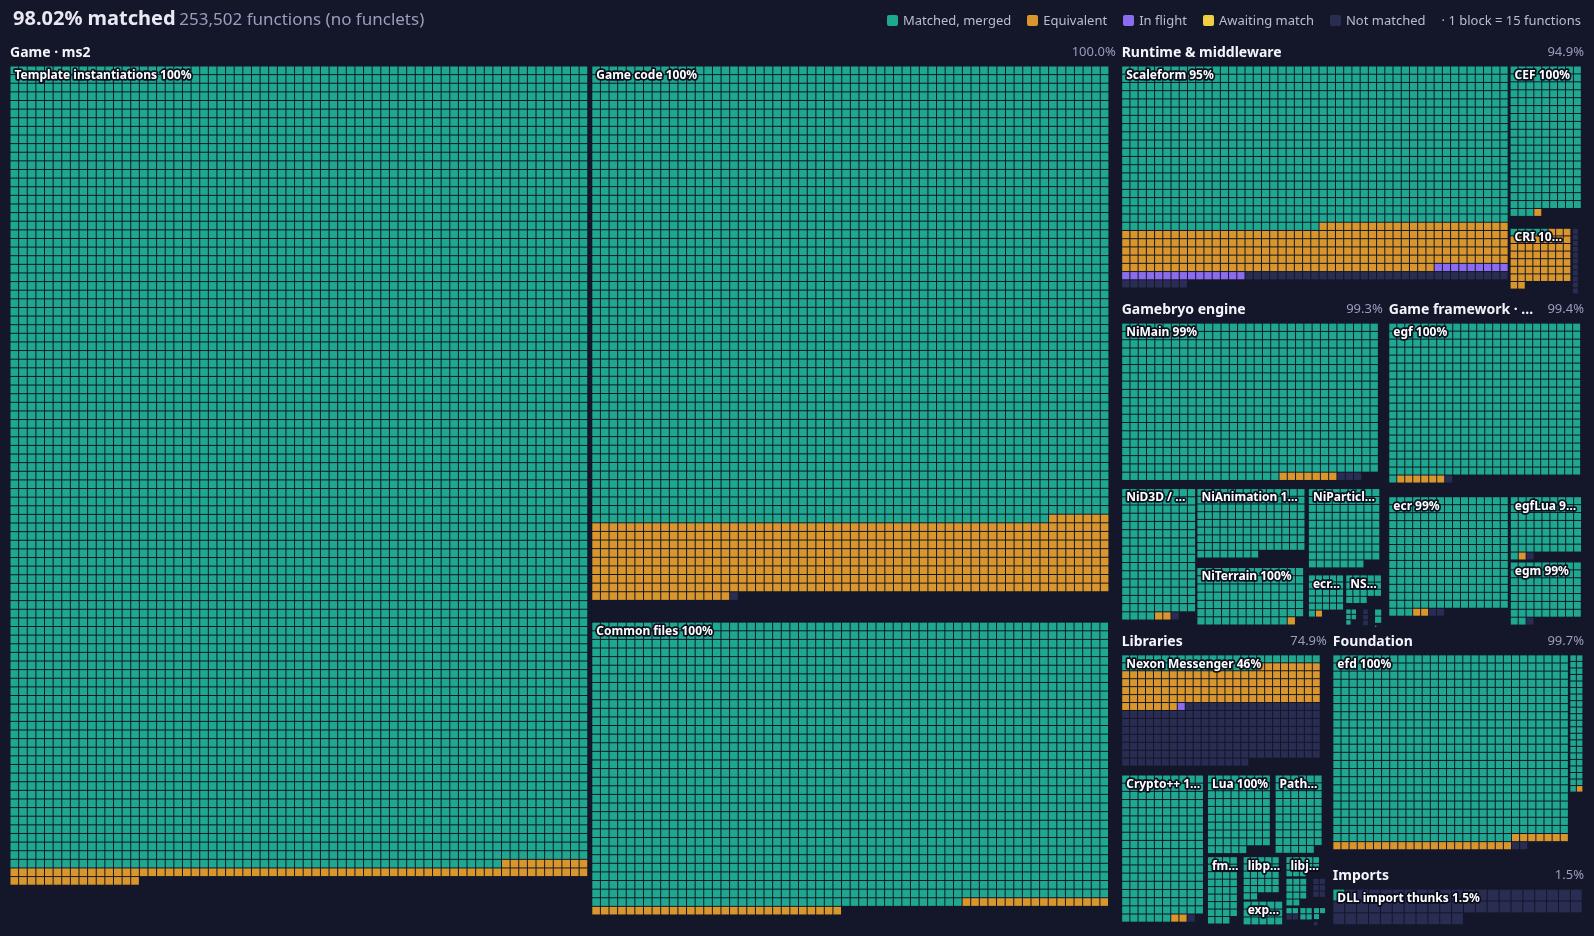
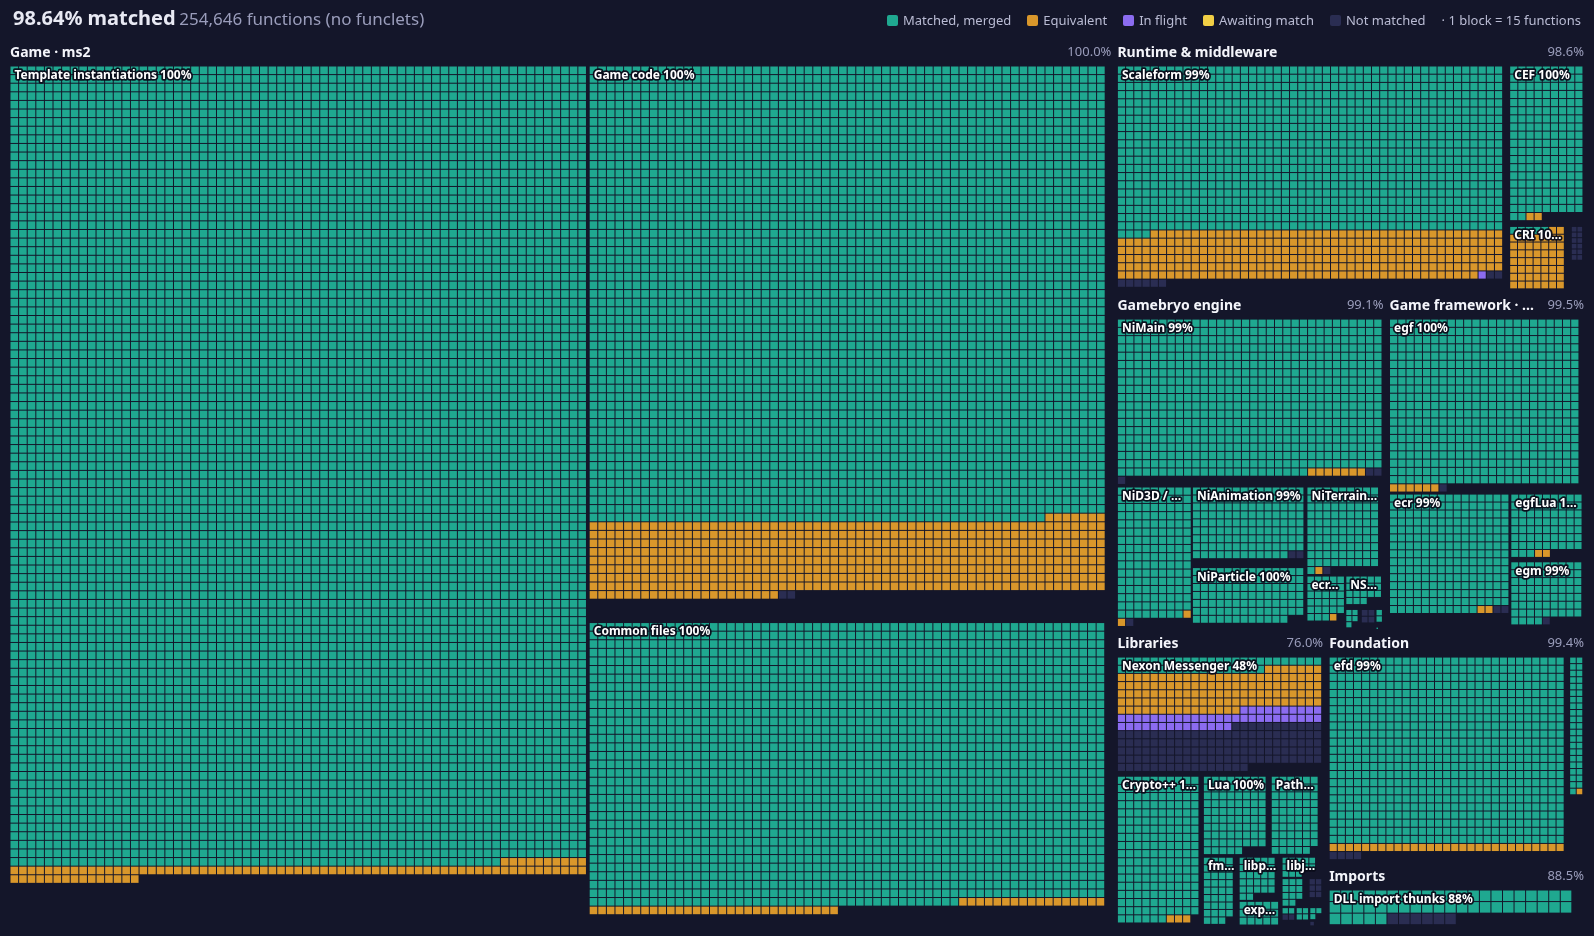
README: refresh progress image and table

diff --git a/README.md b/README.md
@@ -25,14 +25,14 @@ Merged totals by area (functions in the original executable; regenerated on each
 <!-- progress:start -->
 | Area | Functions | Matched | Equivalent | Done |
 |---|---:|---:|---:|---:|
-| Game · ms2 | 179,953 | 170,316 (94.6%) | 9,621 (5.3%) | 100.0% |
-| Runtime & middleware | 21,953 | 16,281 (74.2%) | 4,551 (20.7%) | 94.9% |
-| Gamebryo engine | 16,151 | 15,882 (98.3%) | 158 (1.0%) | 99.3% |
-| Game framework · egf | 12,168 | 11,953 (98.2%) | 138 (1.1%) | 99.4% |
-| Libraries | 11,515 | 6,863 (59.6%) | 1,759 (15.3%) | 74.9% |
-| Foundation | 10,980 | 10,509 (95.7%) | 435 (4.0%) | 99.7% |
-| Imports | 782 | 11 (1.4%) | 1 (0.1%) | 1.5% |
-| **Total** | **253,502** | 231,815 (91.4%) | 16,663 (6.6%) | 98.0% |
+| Game · ms2 | 180,071 | 170,341 (94.6%) | 9,693 (5.4%) | 100.0% |
+| Runtime & middleware | 21,903 | 16,680 (76.2%) | 4,915 (22.4%) | 98.6% |
+| Gamebryo engine | 16,841 | 16,522 (98.1%) | 165 (1.0%) | 99.1% |
+| Game framework · egf | 12,408 | 12,195 (98.3%) | 157 (1.3%) | 99.5% |
+| Libraries | 11,515 | 6,881 (59.8%) | 1,867 (16.2%) | 76.0% |
+| Foundation | 11,126 | 10,617 (95.4%) | 446 (4.0%) | 99.4% |
+| Imports | 782 | 692 (88.5%) | 0 (0.0%) | 88.5% |
+| **Total** | **254,646** | 233,928 (91.9%) | 17,243 (6.8%) | 98.6% |
 <!-- progress:end -->
 
 ## Layout
